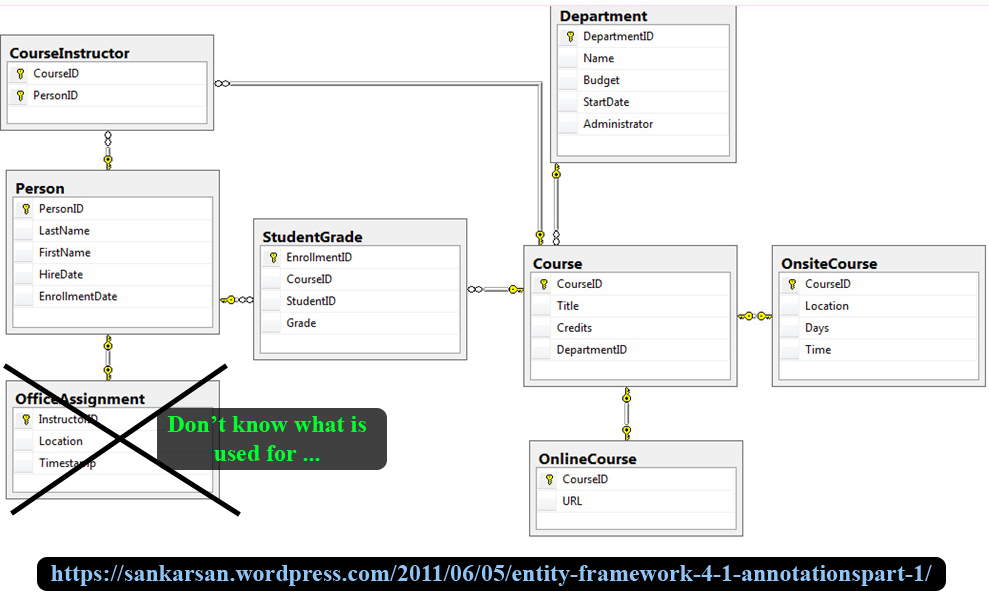
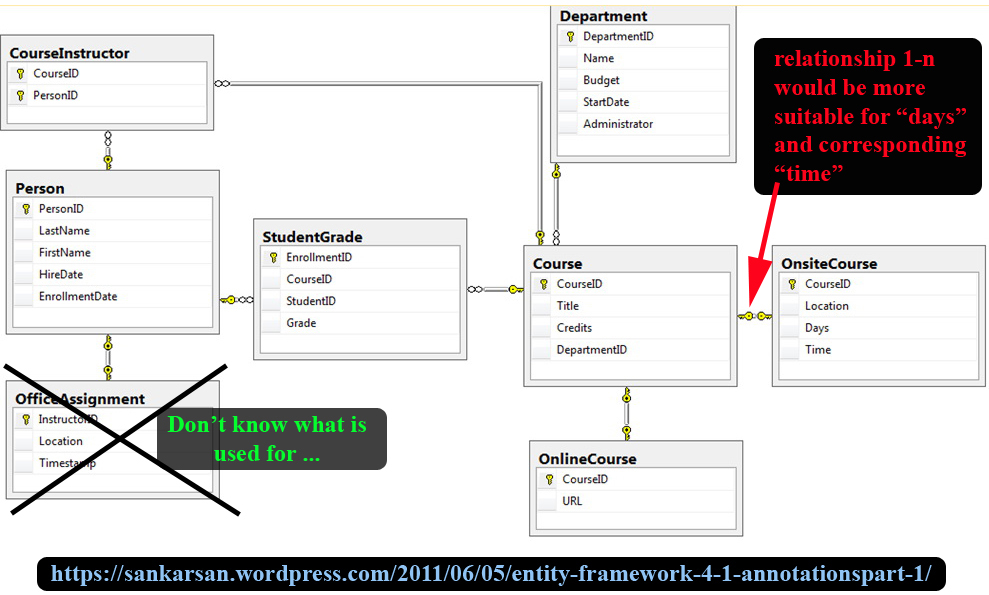
ERD: Correction

Changed region(s): [[0.7583, 0.0605, 1.0, 0.5143]]

diff --git a/server/routes/api-routes-insert.js b/server/routes/api-routes-insert.js
@@ -6,23 +6,122 @@ const db = require("../models");
 
 module.exports = function (app) {
     app.post("/api/add/department", (req, res) => {
-        db.department.fineOne({
-            where: { name: req.body.name }
-        }).then(data => {
[1 lines of base64/hex data omitted]
-            console.log("add/department, data: " + JSON.stringify(data, null, 5))
-        })
+        const dpt = req.body
+        db.department.findOrCreate({
+            where: {
+                name: dpt.name,
+                budget: dpt.budget,
+                startDate: dpt.startDate,
+                administrator: dpt.administrator
+            }
+        }).then(data => res.status(200).json(data))
+            .catch(err => res.status(400).json(err))
     })
 
     app.post("/api/add/course", (req, res) => {
-
+        const dpt = req.body
+        db.course.findOrCreate({
+            where: {
+                title: dpt.title,
+                credits: dpt.credits,
+                dptId: dpt.dptId
+            }
+        }).then(data => res.status(200).json(data))
+            .catch(err => res.status(400).json(err))
     })
 
     app.post("/api/add/instructor", (req, res) => {
-
+        const dpt = req.body
+        db.person.findOrCreate({
+            where: {
+                lastName: dpt.lastName,
+                firstName: dpt.firstName,
+                hireDate: dpt.hireDate,
+                enrollmentDate: dpt.enrollmentDate
+            }
+        }).then(data => res.status(200).json(data))
+            .catch(err => res.status(400).json(err))
     })
 
     app.post("/api/add/student", (req, res) => {
+        const dpt = req.body
+        db.person.findOrCreate({
+            where: {
+                lastName: dpt.lastName,
+                firstName: dpt.firstName,
+                hireDate: dpt.hireDate,
+                enrollmentDate: dpt.enrollmentDate
+            }
+        }).then(data => res.status(200).json(data))
+            .catch(err => res.status(400).json(err))
+    })
 
+    app.post("/api/add/course-instructor", (req, res) => {
+        const dpt = req.body
+        db.person.findOne({ where: { id: dpt.instructorId }
+        }).then(data => {
+            if(data==null) res.status(400).json("Could not find an instructor with an ID of '" + dpt.instructorId + "'")
+            else{
+                db.course.findOne({ where: { id: dpt.courseId }})
+                .then(data => {
+                    db.courseIntructor.findOrCreate({ where: {
+                        courseId: dpt.courseId,
+                        personId: dpt.instructorId
+                    }}).then(data => res.status(200).json("Insertion Successfully!"))
+                    .catch(err => res.status(400).json("Could not insert course-instructor, err: " + err))
+                })
+                .catch(err => res.status(400).json("Could not find a course with an ID of '" + dpt.courseId + "'"))
+            }
+            res.status(200).json(data)
+        })
+            .catch(err => res.status(400).json(err))
+    })
+
+    app.post("/api/add/course-student", (req, res) => {
+        const dpt = req.body
+        db.person.findOne({ where: { id: dpt.studentId }
+        }).then(data => {
+            if(data==null) res.status(400).json("Could not find a student with an ID of '" + dpt.studentId + "'")
+            else{
+                db.course.findOne({ where: { id: dpt.courseId }})
+                .then(data => {
+                    db.courseIntructor.findOrCreate({ where: {
+                        courseId: dpt.courseId,
+                        personId: dpt.studentId,
+                        grade: ""
+                    }}).then(data => res.status(200).json("Insertion Successfully!"))
+                    .catch(err => res.status(400).json("Could not insert course-student, err: " + err))
+                })
+                .catch(err => res.status(400).json("Could not find a course with an ID of '" + dpt.courseId + "'"))
+            }
+            res.status(200).json(data)
+        })
+            .catch(err => res.status(400).json(err))
+    })
+
+    app.post("/api/set/course/online", (req, res) => {
+        db.course.findOne({ where: { id: req.body.courseId }})
+        .then(data => {
+            db.onlineCourse.findOrCreate({ where: {
+                courseId: req.body.courseId,
+                url: req.body.url
+            }}).then(data => res.status(200).json("Set Course as 'Online' Successfully!"))
+            .catch(err => res.status(400).json("Could not Set Course as 'Online', err: " + err))
+        })
+        .catch(err => res.status(400).json("Could not find a course with an ID of '" + dpt.courseId + "'"))
+    })
+
+    app.post("/api/set/course/onsite", (req, res) => {
+        db.course.findOne({ where: { id: req.body.courseId }})
+        .then(data => {
+            db.onlineCourse.findOrCreate({ where: {
+                courseId: req.body.courseId,
+                location: req.body.location,
+                day: req.body.day,
+                time: req.body.time
+            }}).then(data => res.status(200).json("Set Course as 'Onsite' Successfully!"))
+            .catch(err => res.status(400).json("Could not Set Course as 'Onsite', err: " + err))
+        })
+        .catch(err => res.status(400).json("Could not find a course with an ID of '" + dpt.courseId + "'"))
     })
 }

diff --git a/src/actions/testAction.js b/src/actions/testAction.js
@@ -4,34 +4,25 @@ import cst from '../constants/testConstant'
 
 const testAction = {
     testAPIRequest: () => {
-        // return (dispatch) => {
-        //     axios.get("/api/test")
-        //         .then(data => {
-        //             console.log("Test Request!")
-        //             console.log("Result: " + JSON.stringify(data))
-        //             dispatch({
-        //                 type: cst.TEST_RESULT,
-        //                 payload: data
-        //             })
-        //         })
-        //         .catch(err => console.log("Request error: " + err))
-        // }
+        return (dispatch) => {
+            const dpt = {
+                name: "depart_1",
+                budget: 1000000,
+                startDate: "2018-03-30 04:05:09",
+                administrator: "James Bond"
+            }
 
-        return (dispatch, getState) => {
-            let state = getState() // if we need the State
[1 lines of base64/hex data omitted]
-            console.log("testAPIRequest, add/department, data: " + JSON.stringify(state.test.data))
-            // axios.post("/api/add/department")
-            //     .then(data => {
-            //         console.log("Test Request!")
-            //         console.log("Result: " + JSON.stringify(data))
-            //         dispatch({
-            //             type: cst.TEST_RESULT,
-            //             payload: data
-            //         })
-            //     })
-            //     .catch(err => console.log("Request error: " + err))
-        }
+            axios.post("/api/add/department", dpt)
+                .then(data => {
+                    console.log("Test Request!")
+                    console.log("Result: " + JSON.stringify(data, null, 5))
+                    dispatch({
+                        type: cst.TEST_RESULT,
+                        payload: data
+                    })
+                })
+                .catch(err => console.log("Request error: " + err))
+        }        
     }
 }
 

diff --git a/src/containers/TestContainer.js b/src/containers/TestContainer.js
@@ -4,9 +4,9 @@ import { connect } from 'react-redux'
 import testAction from '../actions/testAction'
 import TestComponent from '../components/TestComponent'
 
-const mapStateToProps = (state) => ({
-    data: state.test.data
-})
+// const mapStateToProps = (state) => ({
+//     data: state.test.data
+// })
 
 const mapDispatchToProps = (dispatch) => ({
     doRequest: () => { dispatch(testAction.testAPIRequest()) },
@@ -14,7 +14,8 @@ const mapDispatchToProps = (dispatch) => ({
 
 // You have to connect() to any reducers that you wish to connect to yourself
 const TestContainer = connect(
-    mapStateToProps,
+    // mapStateToProps,
+    null,
     mapDispatchToProps
 )(TestComponent)
 

diff --git a/src/components/TestComponent.js b/src/components/TestComponent.js
@@ -1,17 +1,15 @@
 import React from 'react'
 import PropTypes from 'prop-types'
 
-let TestComponent = ({ data, doRequest }) => 
+let TestComponent = ({ doRequest }) => 
     <div>
         <button type="button" onClick={e => {
             e.preventDefault()
             doRequest()
         }}>Make Request</button>
-        <p>{data}</p>
     </div>
 
 TestComponent.propTypes = {
-    data: PropTypes.string, // <<<<<<<<<<<<<<<<<<<<<< NEED TO BE CHANGED ...
     doRequest: PropTypes.func.isRequired
 }
 

diff --git a/server/models/index.js b/server/models/index.js
@@ -48,10 +48,10 @@ db.course.belongsTo(db.department);
 db.department.hasMany(db.course);
 
 // 1-1
-db.course.belongsTo(db.onsite);
-db.onsite.hasOne(db.course);
+db.course.hasMany(db.onsite);
+db.onsite.belongsTo(db.course);
 
-db.course.belongsTo(db.online);
-db.online.hasOne(db.course);
+db.course.hasOne(db.online);
+db.online.belongsTo(db.course);
 
 module.exports = db;

diff --git a/server/models/department.js b/server/models/department.js
@@ -1,8 +1,9 @@
 module.exports = function (sequelize, Sequelize) {
     const Department = sequelize.define("department", {
         id: {
-            type: Sequelize.STRING,
-            primaryKey: true
+            type: Sequelize.INTEGER,
+            primaryKey: true,
+            autoIncrement: true,
         },
         name: {
             type: Sequelize.STRING,

diff --git a/server/models/person.js b/server/models/person.js
@@ -1,8 +1,9 @@
 module.exports = function (sequelize, Sequelize) {
     const Person = sequelize.define("person", {
         id: {
-            type: Sequelize.STRING,
-            primaryKey: true
+            type: Sequelize.INTEGER,
+            primaryKey: true,
+            autoIncrement: true,
         },
         lastName: {
             type: Sequelize.STRING,

diff --git a/server/models/course.js b/server/models/course.js
@@ -1,8 +1,9 @@
 module.exports = function (sequelize, Sequelize) {
     const Course = sequelize.define("course", {
         id: {
-            type: Sequelize.STRING,
-            primaryKey: true
+            type: Sequelize.INTEGER,
+            primaryKey: true,
+            autoIncrement: true,
         },
         title: {
             type: Sequelize.STRING,

diff --git a/server/models/studentGrade.js b/server/models/studentGrade.js
@@ -1,5 +1,10 @@
 module.exports = function (sequelize, Sequelize) {
     const StudentGrade = sequelize.define("studentGrade", {
+        id: {
+            type: Sequelize.INTEGER,
+            primaryKey: true,
+            autoIncrement: true,
+        },
         enrollmentId: {
             type: Sequelize.STRING,
             primaryKey: true

diff --git a/server/models/onsite.js b/server/models/onsite.js
@@ -1,5 +1,10 @@
 module.exports = function (sequelize, Sequelize) {
     const Onsite = sequelize.define("onsite", {
+        id: {
+            type: Sequelize.INTEGER,
+            primaryKey: true,
+            autoIncrement: true,
+        },
         location: {
             type: Sequelize.STRING,
             validate: {

diff --git a/server/models/online.js b/server/models/online.js
@@ -1,5 +1,10 @@
 module.exports = function (sequelize, Sequelize) {
     const Online = sequelize.define("online", {
+        id: {
+            type: Sequelize.INTEGER,
+            primaryKey: true,
+            autoIncrement: true,
+        },
         url: {
             type: Sequelize.STRING,
             validate: {
